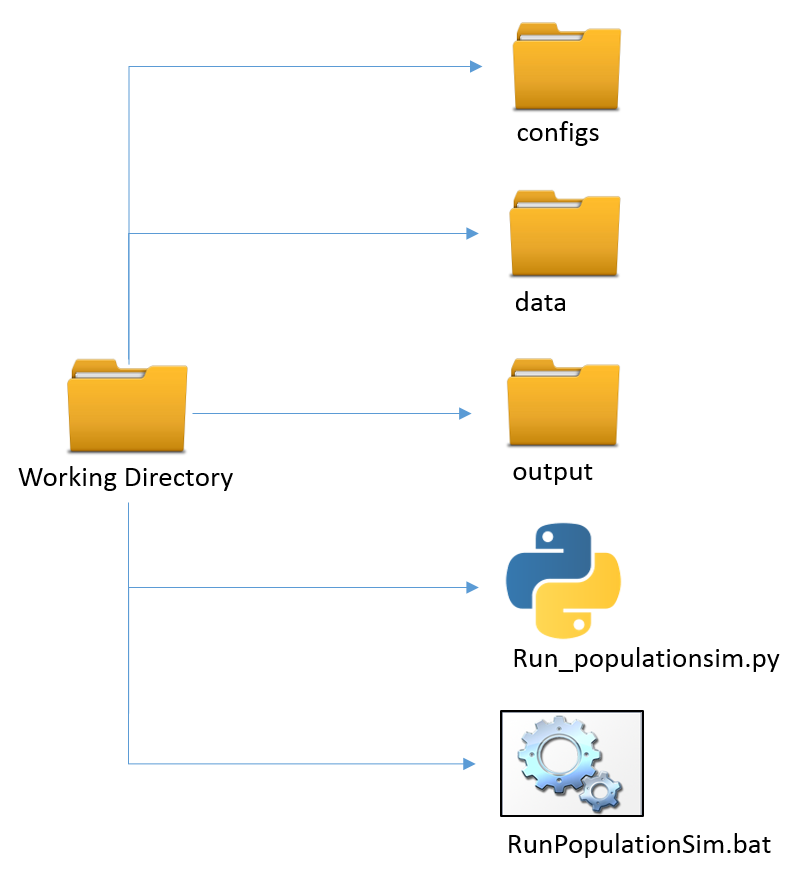
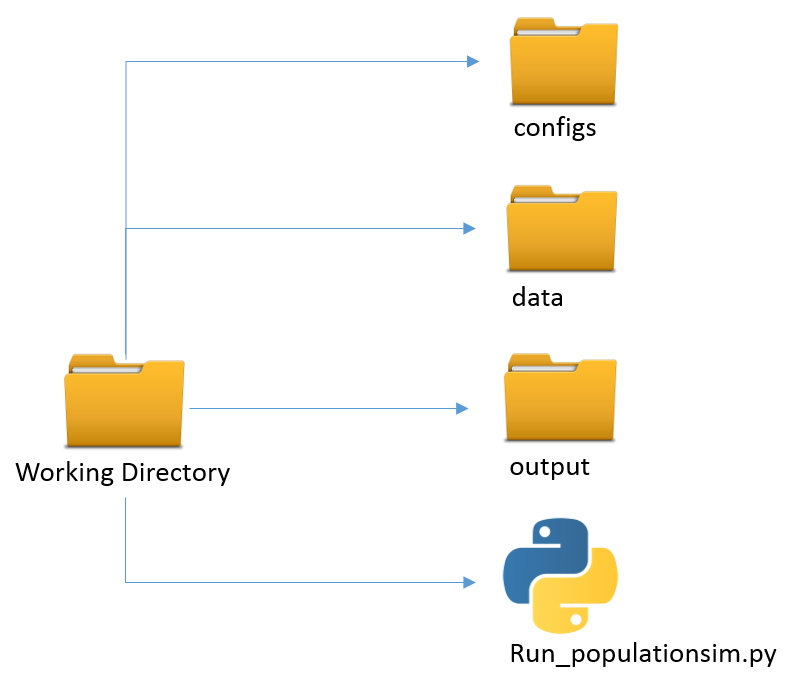
#63 plus some text related to #64

diff --git a/docs/getting_started.rst b/docs/getting_started.rst
@@ -7,27 +7,12 @@
 Getting Started
 ===============
 
-This page describes the installation procedure for PopulationSim and how to run PopulationSim with sample data. Users can choose among the following two methods to install PopulationSim:
+This page describes how to install and run PopulationSim with the provided example.
 
-* `Beginner Installation Procedure`_. Download, Unzip, Run!
-* `Advanced User Installation Procedure`_. Install from scratch
+Installation
+------------
 
-
-Beginner Installation Procedure
---------------------------------
-
-1. Download `Anaconda installation ZIP <https://github.com/RSGInc/populationSim_resources/raw/master/complete_setup/Anaconda2.zip>`_ loaded with all required libraries and PopulationSim package. Note that the ZIP file is a bit over 1 GB and the unzipped directory is approximately 3.3 GB.
-
-*The Anaconda Python 2.7 and dependent libraries used to prepare this installation folder were accessed on 27th Dec 2017*
-
-2. Unzip and copy the Anaconda2 folder to any location on your computer. 
-
-3. Now proceed to `Run Examples`_
-
-
-Advanced User Installation Procedure
--------------------------------------
-1. Install `Anaconda Python 2.7 <https://www.continuum.io/downloads>`__. 
+1. Install `Anaconda Python 2.7 <https://www.continuum.io/downloads>`__.  Anaconda Python is required for PopulationSim.
 
 2. If you access the internet from behind a firewall, then you will need to configure your proxy server. To do so, create a .condarc file in your Anaconda installation folder (i.e. ``C:\ProgramData\Anaconda2``), such as:
 
@@ -37,19 +22,12 @@ Advanced User Installation Procedure
     http: http://myproxy.org:8080
     https: https://myproxy.org:8080
   ssl_verify: false
-
  
 3. Create and activate an Anaconda environment (basically a Python install just for this project)
   
   * Run ``conda create -n popsim python=2.7``
-  * Run ``activate popsim`` #you can re-use the environment on a later date by re-activating it
-  
-     3.a. If you access the internet from behind a firewall, then you will need to configure your proxy server when downloading packages. For example:
-     
-     ::
-     
-       pip install --trusted-host pypi.python.org --proxy=myproxy.org:8080  activitysim
- 
+  * Run ``activate popsim`` #you can re-use the environment on a later date by re-activating it or you can skip this step is you don't want to setup a new Python environment just for PopulationSim
+   
 4. Get and install other required libraries, which can be found online.  Run the following command on the activated conda Python environment:
 
   * `conda install pytables <http://www.pytables.org/>`__
@@ -60,50 +38,39 @@ Advanced User Installation Procedure
   * `pip install activitysim <https://pypi.python.org/pypi/activitysim>`__
   * `pip install ortools <https://github.com/google/or-tools>`__
 
-5. After setting up Anaconda Python and dependent libraries, run the following command on the activated conda Python environment to install PopulationSim package:
+5. If you access the internet from behind a firewall, then you will need to configure your proxy server when downloading packages. For example:
+     
+::
+
+  pip install --trusted-host pypi.python.org --proxy=myproxy.org:8080  activitysim
+
+6. Get and install the PopulationSim package on the activated conda Python environment:
 
    ``pip install https://github.com/RSGInc/populationsim/zipball/master``
- 
-6. Run ``deactivate`` to deactivate the active conda Python environment
-
-7. Now proceed to `Run Examples`_
-
-
-
 
 Run Examples
 ------------
 
-	* Before running examples, ensure that Anaconda Python, dependent libraries and PopulationSim package have been installed (see above). If the fully loaded Anaconda install was downloaded, then it should have been unzipped to an appropriate location on your computer.
+  * Before running examples, ensure that Anaconda Python, dependent libraries and PopulationSim package have been installed.
  
-	* Download and unzip the `example set ups <https://github.com/RSGInc/populationSim_resources/raw/master/example_setup/PopulationSimExampleSetUps.7z>`_ to a folder on your computer. It does not have to be the same directory as your Anaconda or PopulationSim install.
+  * Download and unzip the `example setups <https://github.com/RSGInc/populationSim_resources/raw/master/example_setup/PopulationSimExampleSetUps.7z>`_ to a folder on your computer. It does not have to be the same directory as your Anaconda or PopulationSim install.
 
-There are two examples for running PopulationSim, created using data from the Corvallis-Albany-Lebanon Modeling (CALM) region in Oregon. The `Example_calm`_ set-up runs PopulationSim in base mode, where a synthetic population is created for the entire modeling region. This takes approximately 12 minutes on a laptop with an Intel i7-4800MQ CPU @ 2.70GHz and 16 GB of RAM. The `Example_calm_repop`_ set-up runs PopulationSim in the *repop* mode, which updates the synthetic population for a small part of the region. More information on the configuration of PopulationSim can be found in the **Application & Configuration** section.
+There are two examples for running PopulationSim, created using data from the Corvallis-Albany-Lebanon Modeling (CALM) region in Oregon. The `example_calm`_ set-up runs PopulationSim in base mode, where a synthetic population is created for the entire modeling region. This takes approximately 12 minutes on a laptop with an Intel i7-4800MQ CPU @ 2.70GHz and 16 GB of RAM. The `example_calm_repop`_ set-up runs PopulationSim in the *repop* mode, which updates the synthetic population for a small part of the region. More information on the configuration of PopulationSim can be found in the **Application & Configuration** section.
 
 Example_calm
 ~~~~~~~~~~~~
 
 Follow the steps below to run **example_calm** set up:
 
-  * Open the *RunPopulationSim.bat* script from the example_calm folder in edit mode
-  * Set the location of the Anaconda installation directory in the batch script as shown below (note: if the path contains spaces, put quotes around the path):
-
-  ::
-
-   :: USER INPUTS
-   :: ---------------------------------------------------------------------
-   :: Local Anaconda installation directory
-   SET ANACONDA_DIR=E:\path\to\this\directory\Anaconda2
-   :: ---------------------------------------------------------------------  
-  
-  * Close the *RunPopulationSim.bat* script and then double click to launch the run
-  * Close the run window by pressing any key. Check the outputs in the *output* folder
-  * If the Conda environment was created in the global Anaconda Install on the user's computer, the setup can be run by opening a CMD window in the setup directory and running the following commands:
+  * Open a command prompt in the example_calm folder
+  * Run the following commands:
   
   ::
 
    activate popsim
    python run_populationsim.py
+   
+  * Review the outputs in the *output* folder
 
 Example_calm_repop
 ~~~~~~~~~~~~~~~~~~
@@ -111,24 +78,12 @@ Example_calm_repop
 The repop configuration requires outputs from a base run. Therefore, the base configuration must be run before running the repop configuration. Follow the steps below to run **example_calm_repop** set up:
 
   * Copy the **pipeline.h5** file from the example_calm\\output directory to example_calm_repop\\output directory (all PopulationSim files are stored in pipeline.h5 file)
-  * Open the *RunPopulationSim.bat* script from the example_calm_repop folder in edit mode
-  * Set the location of the Anaconda installation directory in the batch script as shown below (note: if the path contains spaces, put quotes around the path):
-
-  ::
-
-   :: USER INPUTS
-   :: ---------------------------------------------------------------------
-   :: Local Anaconda installation directory
-   SET ANACONDA_DIR=E:\path\to\this\directory\Anaconda2
-   :: ---------------------------------------------------------------------  
-  
-  * Close the *RunPopulationSim.bat* script and then double click to launch the run
-  * Close the run window by pressing any key. Check the outputs in the *output* folder
-  * If the Conda environment was created in the global Anaconda Install on the user's computer, the setup can be run by opening a CMD window in the setup directory and running the following commands:
-  
+  * Open a command prompt in the example_calm_repop folder
+  * Run the following commands:
+    
   ::
 
    activate popsim
    python run_populationsim.py
-
-
+   
+  * Review the outputs in the *output* folder 

diff --git a/docs/application_configuration.rst b/docs/application_configuration.rst
@@ -86,7 +86,7 @@ The seed sample must contain all of the specified control variables, as well as 
 Finally, the seed sample must include an initial weight field. The PopulationSim algorithm is designed to assign weights as close to the initial weight as possible to minimize the changes in distribution of uncontrolled variables. All the fields in the seed sample should be appropriately recoded to specify controls (see more details in next section). Household-level population variables must be computed in advance (for e.g., number of workers in each household) and monetary variables must be inflation adjusted to be consistent with year of control data (e.g., Household Income). The ACS PUMS data contain 3 or 5 years of household records, where  each record's income is reported in the year in which it was collected. The ACS PUMS data includes the rolling reference factor for the year and the inflation adjustment factor, these must be used to code each household's income to a common income year.
 
 Controls
-~~~~~~~~~	
+~~~~~~~~
 
 Controls are the marginal distributions that form the constraints for the population synthesis procedure. Controls are also referred to as *targets* and the objective of the population synthesis procedure is to produce a synthetic population whose attributes match these marginal distributions. Controls can be specified for both household and person variables. The choice of control variables depends on the needs of the project. Ideally, the user would want to specify control for all variables that are important determinant of travel behaviour or would be of interest to policy makers. These would include social, demographic, economic and land-use related variables.
 
@@ -97,24 +97,25 @@ There are multiple source to obtain input data to build these controls. Most com
 Once the data has been obtained, it may be necessary to aggregate or disaggregate the data to the desired geography. 
 Disaggregation involves distributing data from the upper geography to lower geographies using a distribution based on area, population or number of households. A simple aggregation is possible when the lower geography boundaries fits perfectly within the upper geography boundary. In case of overlaps, data can be aggregated in proportion to the area. A simpler method is to establish a correspondence between the lower and upper geography based on the position of the geometric centroid of the lower geography. If the centroid of the lower geography lies within the upper geography then the whole lower geography is assumed to lie within the upper geography. For some shapes, the geometric centroid might be outside the shape boundary. In such cases, an internal point closest to the geometric centroid but within the shape is used. All Census shape files come with the coordinates of the internal point.  The user would need to download the Census shape files for the associated geography and then establish a correspondence with the desired geography using this methodology. It is recommended that input control data should be obtained at the lowest geography possible and then aggregated to the desired geography. These steps must be performed outside of PopulationSim, typically using a Geographic Information System (GIS) software program or travel modeling software package with GIS capabilities.
 
+Control totals within a variable, such as households of size 1, 2, 3, and 4+, should be integerized and smart rounded if necessary since 
+inconsistent controls make convergence more difficult.  For example, if control data is allocated from Census geographies to TAZs, then often
+floating point controls are created.  To correct this, one can calculate the difference between the floating point controls and integerized 
+versions, and then add the error to the largest category by subtracting it from the other categories.  
 
 Configuration
 -------------
 
-Below is PopulationSim's directory structure followed by a description of inputs. To set up a PopulationSim run, the user must create this `directory structure <https://github.com/RSGInc/populationSim_resources/raw/master/template_folder/template.7z>`_
+Below is PopulationSim's directory structure followed by a description of inputs. To set up a PopulationSim run, the user must create the `example directory structure <https://github.com/RSGInc/populationSim_resources/raw/master/example_setup/PopulationSimExampleSetUps.7z>`_
 
   .. image:: images/PopulationSimFolderStructure.png
 
   
-PopulationSim is run using the batch file **RunPopulationSim.bat**. The user needs to update the path to the Anaconda install (Anaconda2 folder) on their computer. This batch file activates the *populationsim* environment and then calls the *run_populationsim.py* Python script to launch a PopulationSim run. Open the **RunPopulationSim.bat** file in edit mode and change the path to Anaconda install as follows (note: if there are spaces in the path, put quotes around the path):
+PopulationSim is run via **run_populationsim.py**. The user needs to first activate the *popsim* environment and then call the *run_populationsim.py* Python script to launch a PopulationSim run.
 
-::
+  ::
 
-   :: USER INPUTS
-   :: ---------------------------------------------------------------------
-   :: Local Anaconda installation directory
-   SET ANACONDA_DIR=E:\path\to\this\directory\Anaconda2
-   :: ---------------------------------------------------------------------
+   activate popsim
+   python run_populationsim.py
 
 PopulationSim is configured using the settings.YAML file. PopulationSim can be configured to run in **base** mode or **repop** mode.
 
@@ -149,8 +150,6 @@ Working Directory Contents:
 +-----------------------+----------------------------------------------------------------------------+
 | File                  | Description                                                                |
 +=======================+============================================================================+
-| RunPopulationSim.bat  | Batch file to run PopulationSim                                            |
-+-----------------------+----------------------------------------------------------------------------+
 | run_populationsim.py  | Python script that orchestrates a PopulationSim run                        |
 +-----------------------+----------------------------------------------------------------------------+
 | /configs              | Sub-directory containing control specifications and configuration settings |

diff --git a/docs/docs.rst b/docs/docs.rst
@@ -15,10 +15,8 @@ Below are links to important documents and resources:
 
 3. `TRB poster <https://github.com/RSGInc/populationSim_resources/raw/master/papers/TRBPoster_PaulDoyleStablerFreedmanBettinardi_v5%5B1%5D.pptx>`_
 
-4. `Training Package <https://github.com/RSGInc/populationSim_resources/raw/master/training_package/TrainingPackage.7z>`_
+4. `PopulationSim Repository <https://github.com/RSGInc/populationsim>`_
 
-5. `Example CALM PUMS Data Processing <https://github.com/RSGInc/populationSim_resources/raw/master/example_calm_data_prep/example_calm_data_prep.7z>`_
+5. `ActivitySim <http://www.activitysim.org>`_
 
-6. `GitHub Repository <https://github.com/RSGInc/populationsim>`_
-
-7. `ActivitySim <http://www.activitysim.org>`_
+6. `Oregon DOT Training Package <https://github.com/RSGInc/populationSim_resources/raw/master/training_package/TrainingPackage.7z>`_
